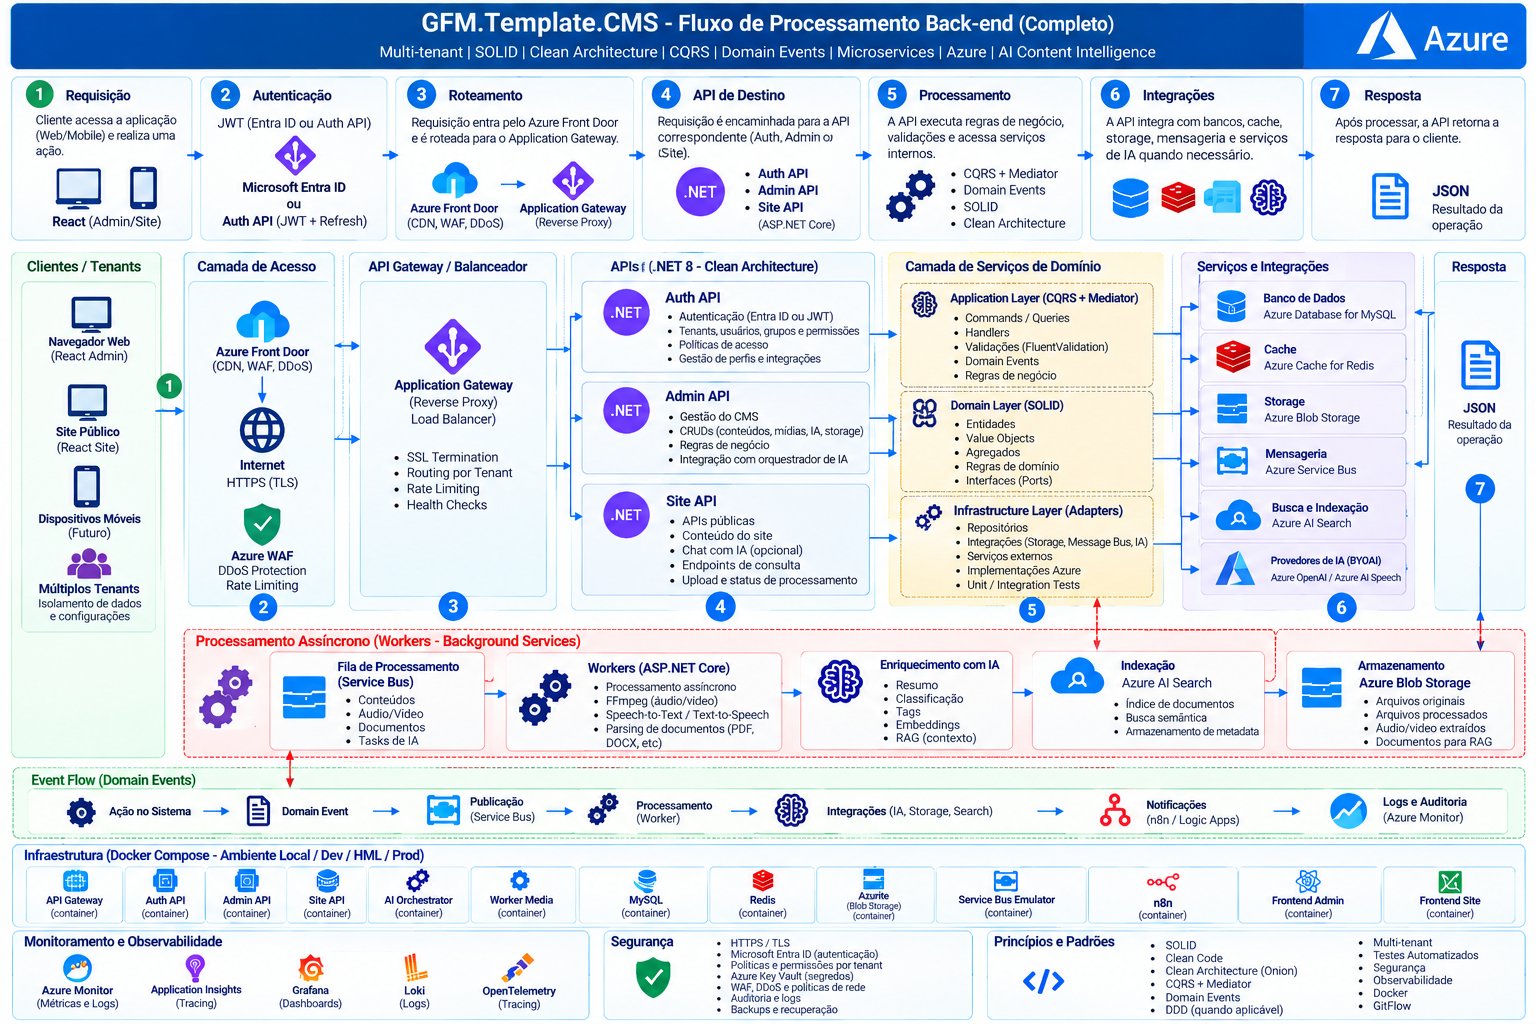
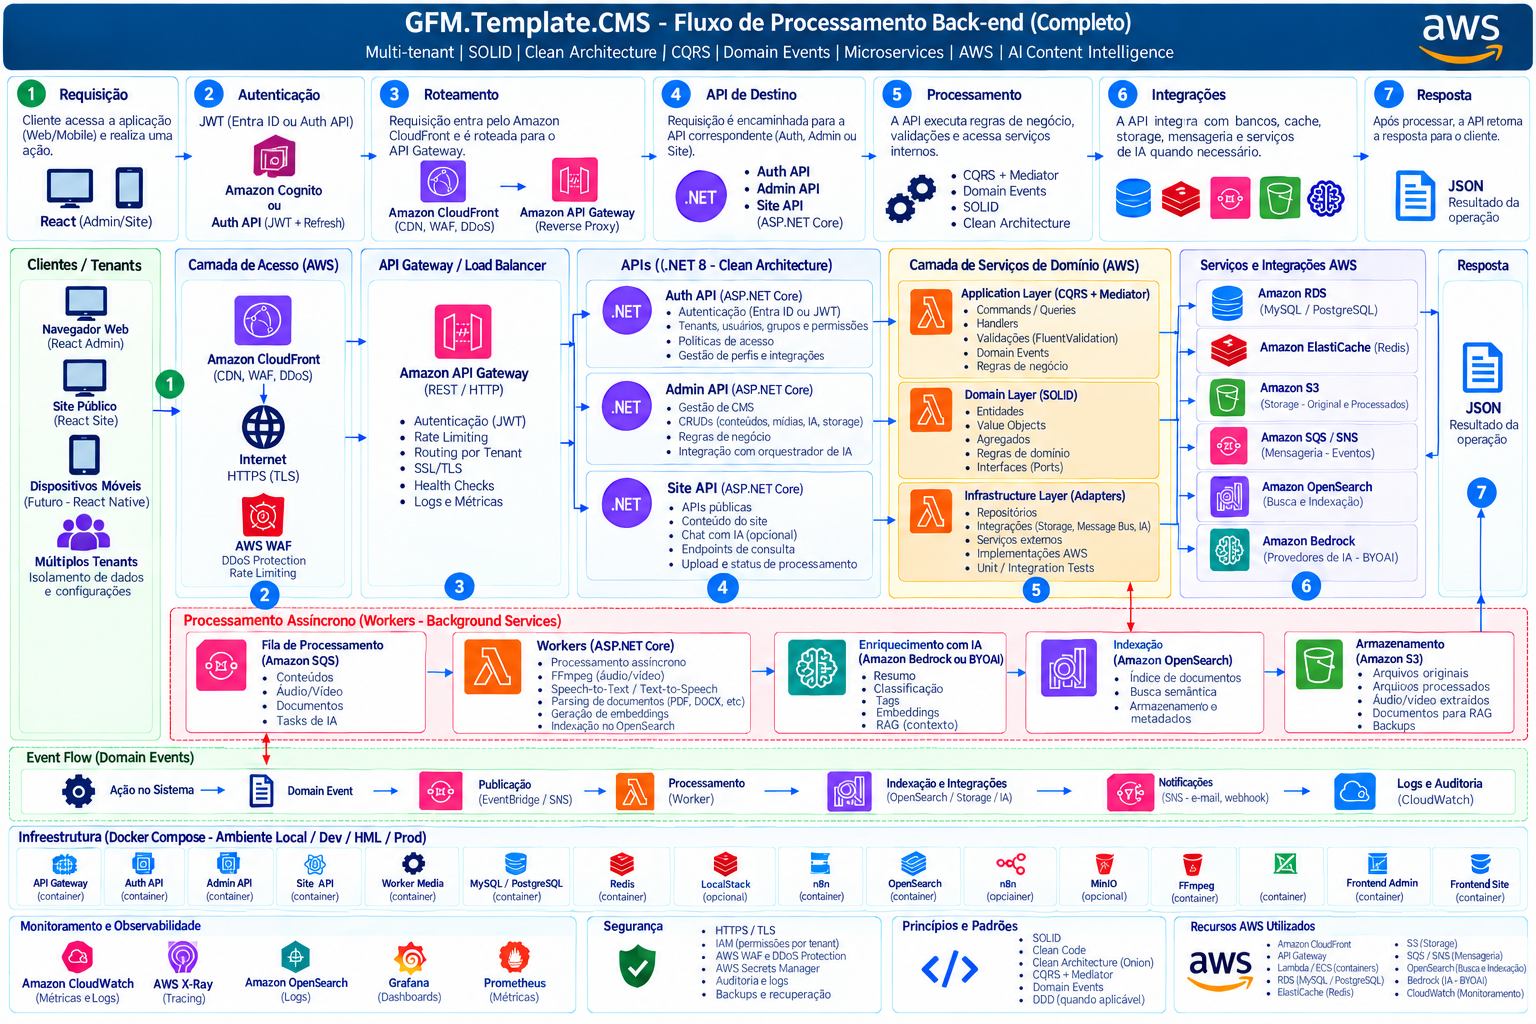
-

diff --git a/README.md b/README.md
@@ -36,6 +36,12 @@ RAG e executar automações através do **n8n**.
 
 ![Arquitetura GFM.Template.CMS](docs/Arquitetura-GFM-Template-CMS.png)
 
+![Infográfico GitFlow_ Fluxo Completo CI_CD no Azure GFM.Template.CMS](docs/gitflow.png)
+
+![Fluxo Backend Azure Multi-Tenant](docs/backend.png)
+
+![Fluxo Completo do Front-end em Azure GFM.Template.CMS](docs/frontend.png)
+
 ### 🔄 Fluxo principal
 
 ``` text
